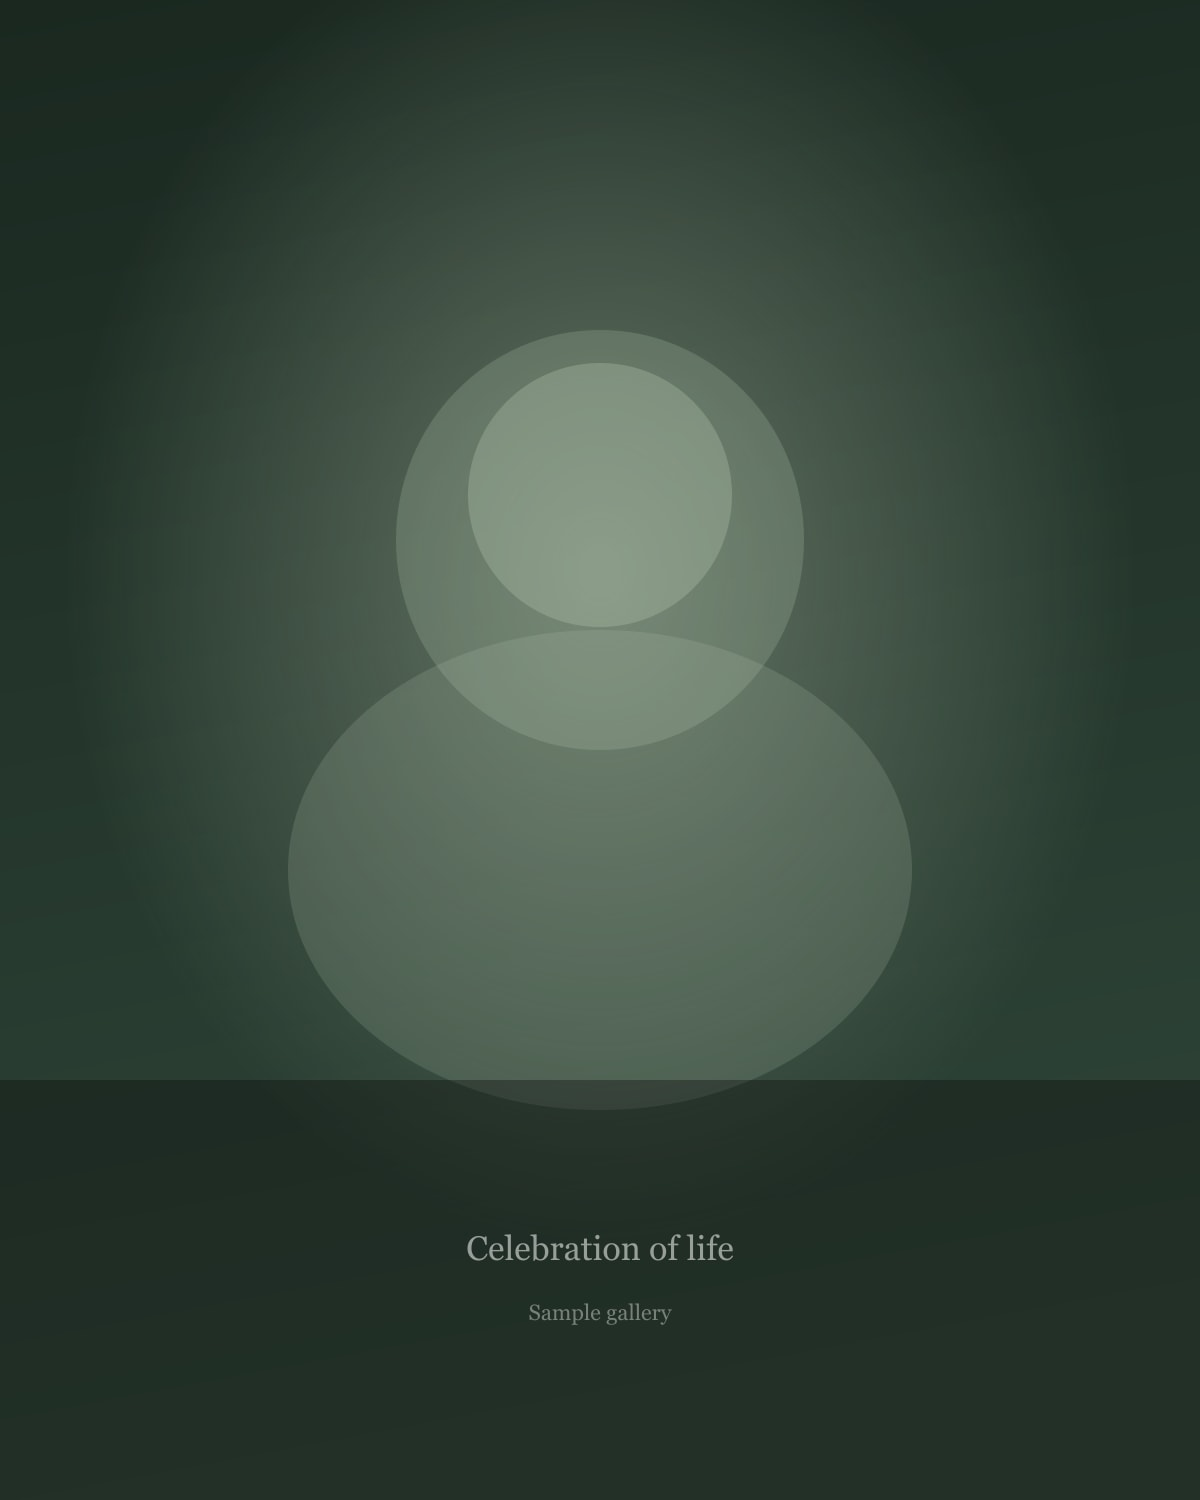
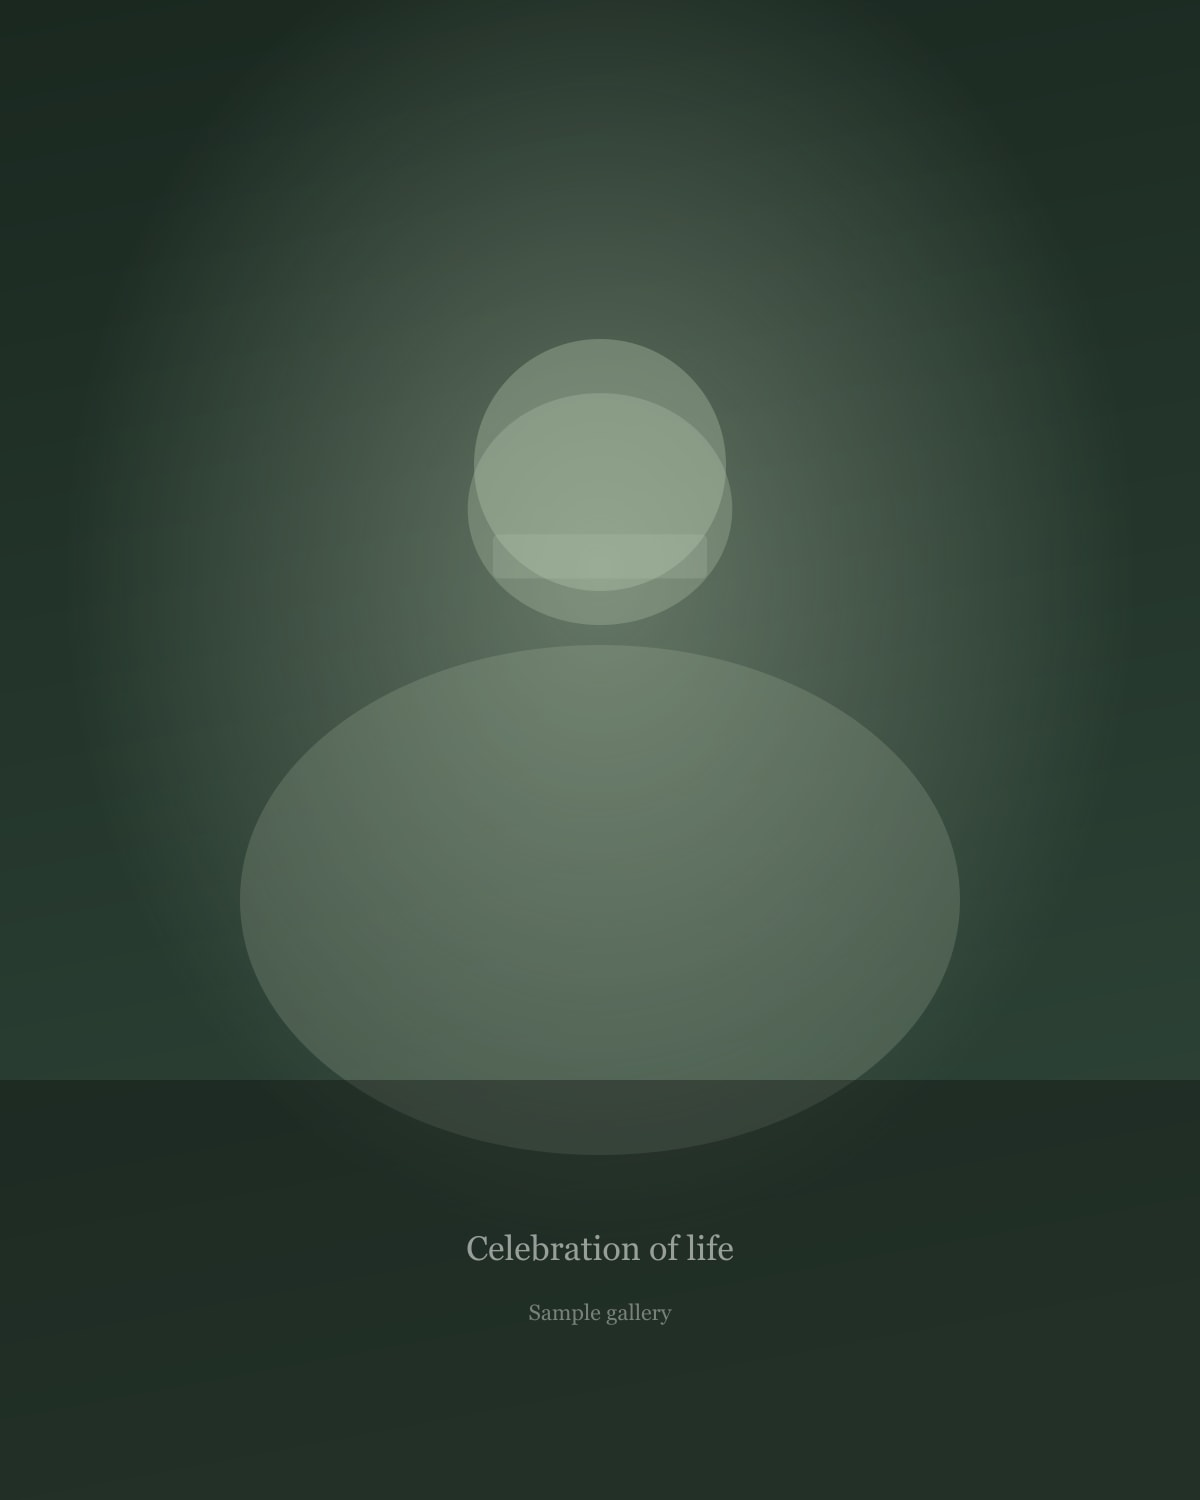
Represent both genders in example memorial seed data.
Distinct male and female portrait silhouettes, updated biographies, and README guidance for the Bannerman and Ghana Muslim demos.

diff --git a/src/lib/seed-memorial.ts b/src/lib/seed-memorial.ts
@@ -78,7 +78,7 @@ export function getExampleMemorialBlob(): StoredMemorialBlob {
     photo_url: BANNERMAN_SEED_PHOTO,
     gallery_urls: [...BANNERMAN_SEED_GALLERY],
     biography:
-      'A devoted father, uncle, and steward of the family stool. Known for his quiet strength, generosity to young people, and unwavering commitment to truth and dignity.',
+      'A devoted father, grandfather, and steward of the family stool. Known for his quiet strength, generosity to young people, and unwavering commitment to truth and dignity in Jamestown.',
     tradition: 'ghana-christian',
     surviving_family: [
       {
@@ -268,7 +268,7 @@ export function getGhanaMuslimExampleMemorialBlob(): StoredMemorialBlob {
     photo_url: GHANA_MUSLIM_SEED_PHOTO,
     gallery_urls: [...GHANA_MUSLIM_SEED_GALLERY],
     biography:
-      'Beloved mother, aunt, and pillar of the community. Known for her hospitality at Ramadan, her counsel to young women, and her quiet generosity to neighbours in need.',
+      'Beloved mother, grandmother, and pillar of Nima. Known for her hospitality at Ramadan, her counsel to young women, and her quiet generosity to neighbours in need — always with grace and modesty.',
     tradition: 'ghana-muslim',
     surviving_family: [
       {

diff --git a/public/seed/README.md b/public/seed/README.md
@@ -2,12 +2,23 @@
 
 JPEG assets for the built-in demo memorials (`bannerman-samuel-2026`, `ghana-muslim-example-2026`).
 
+## Gender representation
+
+Passage ships **two** example memorials so demos show both men and women with respectful names and imagery:
+
+| Memorial slug | Presentation | Seed files |
+|---------------|--------------|------------|
+| `bannerman-samuel-2026` | Male — Samuel Kwesi Bannerman (Christian, full mode) | `bannerman-primary.jpg`, `bannerman-1.jpg` … `bannerman-4.jpg` |
+| `ghana-muslim-example-2026` | Female — Hajia Aminata Mensah (Ghana Muslim programme) | `muslim-primary.jpg`, `muslim-1.jpg` … `muslim-3.jpg` |
+
+Placeholders use distinct silhouettes (broader shoulders / uncovered head for the gentleman; softer shoulders and optional hijab drape for the matriarch). Replace with licensed photography at the same paths when ready.
+
 | File | Memorial |
 |------|----------|
-| `bannerman-primary.jpg` | Primary portrait — Bannerman example |
-| `bannerman-1.jpg` … `bannerman-4.jpg` | Gallery — Bannerman example |
-| `muslim-primary.jpg` | Primary portrait — Ghana Muslim programme example |
-| `muslim-1.jpg` … `muslim-3.jpg` | Gallery — Ghana Muslim example |
+| `bannerman-primary.jpg` | Primary portrait — male Bannerman example |
+| `bannerman-1.jpg` … `bannerman-4.jpg` | Gallery — male Bannerman example |
+| `muslim-primary.jpg` | Primary portrait — female Ghana Muslim example |
+| `muslim-1.jpg` … `muslim-3.jpg` | Gallery — female Ghana Muslim example |
 
 These are **dignified generated placeholders** (warm tones, soft silhouettes) so demos work offline and on Vercel without Unsplash or Blob. To replace with licensed photography, drop new files at the same paths and update `src/lib/seed-memorial.ts` if filenames change.
 
